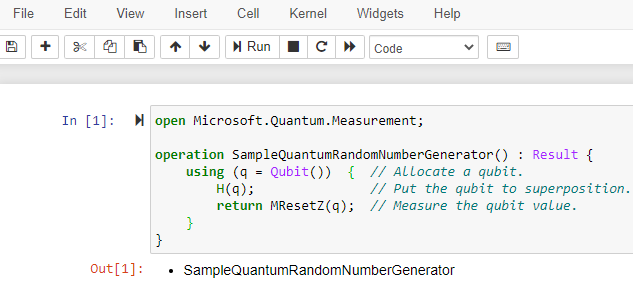
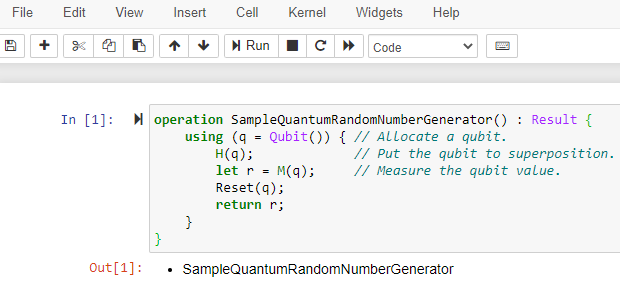
Use interoperability sample

diff --git a/articles/quickstarts/install-python.md b/articles/quickstarts/install-python.md
@@ -71,13 +71,12 @@ That's it! You now have both the `qsharp` Python package and the IQ# kernel for 
 
     - Create a minimal Q# operation by creating a file called `Operation.qs` and adding the following code to it:
 
-        :::code language="qsharp" source="~/quantum/samples/getting-started/qrng/Qrng.qs" range="3,6,9-15,34":::
+        :::code language="qsharp" source="~/quantum/samples/interoperability/qrng/Qrng.qs" range="3-14":::
 
-    - Create a Python program called `random_number.py` to call the Q# `SampleQuantumRandomNumberGenerator()` operation:
+    - Create a Python program called `host.py` to call the Q# `SampleQuantumRandomNumberGenerator()` operation:
 
         ```python
         import qsharp
-
         from Qrng import SampleQuantumRandomNumberGenerator
 
         SampleQuantumRandomNumberGenerator.simulate()
@@ -86,7 +85,7 @@ That's it! You now have both the `qsharp` Python package and the IQ# kernel for 
     - Run the program:
 
         ```
-        python random_number.py
+        python host.py
         ```
 
     - You should see the result of the operation you invoked. In this case, because your operation generates a random result, you will see either `Zero` or `One` printed on the screen. If you execute the program repeatedly, you should see each result approximately half the time.

diff --git a/articles/quickstarts/install-jupyter.md b/articles/quickstarts/install-jupyter.md
@@ -74,7 +74,7 @@ Verify the installation by writing and executing a simple Q# operation.
 
 1. Choose "New" → "Q#" to create a Jupyter Notebook with a Q# kernel, and add the following code to the first notebook cell:
 
-    :::code language="qsharp" source="~/quantum/samples/getting-started/qrng/Qrng.qs" range="6,9-15":::
+    :::code language="qsharp" source="~/quantum/samples/interoperability/qrng/Qrng.qs" range="6-13":::
 
 1. Run this cell of the notebook:
 
